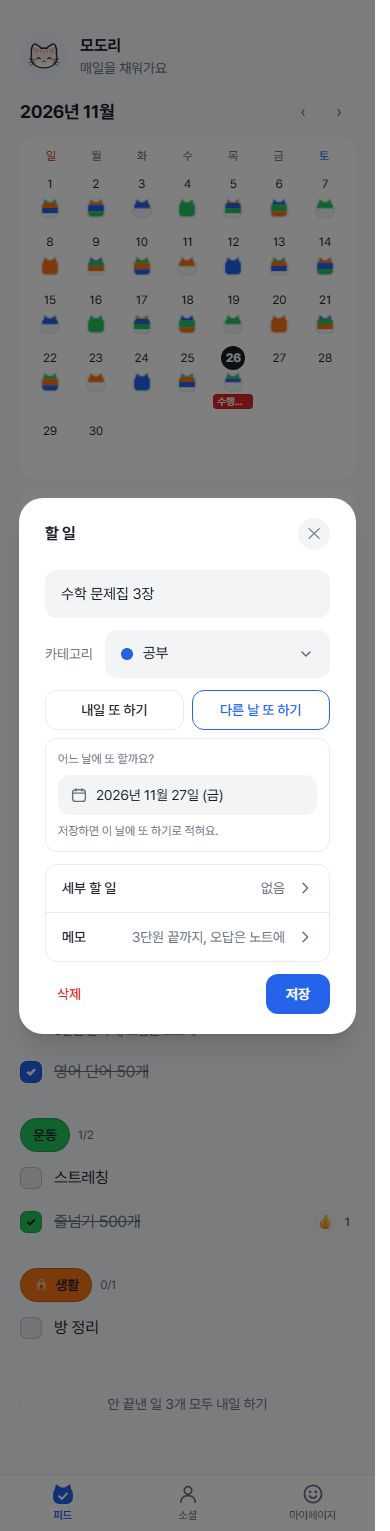
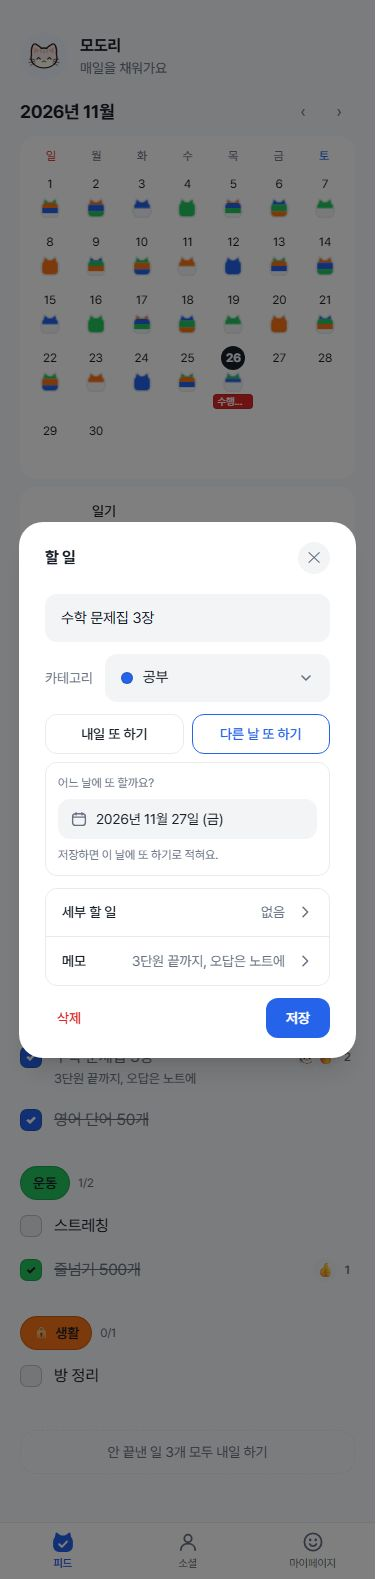
docs: 일기 변경을 넣어 2026-11-26 릴리스 스크린샷을 다시 찍는다
같은 날 일기 변경(홈 카드의 글, 친구 화면의 일기 카드, 비공개 스위치)이 배포돼 main d794244로 71장을 다시 찍어 덮어썼다. 운영자의 미커밋 촬영 변경은 커밋하지 않았다.

diff --git a/docs/feedback.md b/docs/feedback.md
@@ -281,7 +281,7 @@
 | 2026-11-26 | 사용자(운영자) | 일정 색 카테고리를 설정 안이 아니라 팔레트 오른쪽 끝 +로 만들고, 만들면 왼쪽에 하나씩 붙게, 기본 색은 흰색만. 일반 카테고리 색에도 똑같이 | 반영 | 색 고르기를 "흰색 + 내 색 + +"로 다시 만들었고 일정·반복 일정·일반 카테고리가 한 목록을 같이 쓴다(운영자가 골랐다). 설정 화면은 만들기 폼만 빼고 남겼다. 기본 색이 흰색뿐이라 기존 시험 여러 곳을 새 방식으로 고쳤다(승인). 신규 가입자에게 색 고르기가 막막해질 수 있다는 점은 대가로 적었다 | `docs/decisions.md` |
 | 2026-11-26 | 사용자(운영자) | 색 목록(100색)이 쓰지 않는 색뿐이라 너무 많다, 대표 색 몇 개만 두라 | 반영 | 12개(운영자가 고름)로 줄였고 표에 없는 색은 색상 코드·색 판으로 만든다. "100개" 확인 시험 2곳은 개수만 바꿨다(승인) | `docs/decisions.md` "대표 색 12개" |
 | 2026-11-26 | 사용자(운영자) | 일정 밑에 굳이 어느 카테고리의 색인지 적지 않아도 된다 | 반영 | 일정 카드와 홈의 반복 일정 줄에서 내 색의 이름을 지웠다. 이름은 고치는 창과 내 색 화면에서만 보인다 | `docs/decisions.md` "대표 색 12개" |
-| 2026-11-26 | 사용자(운영자) | 릴리스 스크린샷도 찍어 달라 | 반영 | 71장(main f94a7bb). 새 화면 34 색 고르기·35 새 색 만들기 창(대표 색 12개)·36 내 색 화면은 `my-colors.spec.ts`를 따로 만들어 찍었다. 21~24는 운영자 미커밋 변경으로 찍었다 | `docs/screenshots/README.md` |
+| 2026-11-26 | 사용자(운영자) | 릴리스 스크린샷도 찍어 달라 | 반영 | 71장(main d794244, 같은 날 일기 변경이 배포돼 한 번 더 찍어 덮어썼다). 새 화면 34 색 고르기·35 새 색 만들기 창(대표 색 12개)·36 내 색 화면은 `my-colors.spec.ts`를 따로 만들어 찍었다. 21~24는 운영자 미커밋 변경으로 찍었다 | `docs/screenshots/README.md` |
 | 2026-11-26 | 사용자(운영자) | 홈의 일기 카드는 "눌러서 읽기" 말고 한 화면에 들어올 만큼의 글을 보이고 나머지는 "…"으로 | 반영 | 글을 여섯 줄까지 보이고 넘치면 줄인다(서버는 앞 400자만 보낸다) | `docs/decisions.md` "일기는 기본 공개" |
 | 2026-11-26 | 사용자(운영자) | "친구 공개" 박스는 없어도 된다. 비공개도 기본이 공개이고 스위치를 켜면 비공개가 되게 | 반영 | 표시를 모두 없애고 일기 쓰는 화면을 "비공개" 스위치로 바꿨다. 이미 쓴 일기의 공개 값은 그대로 둔다(그때 "나만 봐요"를 믿고 쓴 글). 기본 공개의 위험은 대가로 적었다 | 같은 곳 |
 | 2026-11-26 | 사용자(운영자) | 친구 피드에도 일기를 내 화면과 같게 보이고, 비공개면 "친구가 비공개한 일기예요", 안 썼으면 "일기를 쓰지 않았어요" | 반영 | 친구 화면 달력 밑에 같은 카드를 둔다. 비공개한 날의 글·기분은 브라우저로 보내지 않지만, 비공개 일기가 그 날에 있다는 사실은 드러난다(요청대로, 대가로 적음) | 같은 곳 |

diff --git a/docs/screenshots/README.md b/docs/screenshots/README.md
@@ -68,4 +68,4 @@ SCREENSHOT_DIR=2026-10-01 npm run screenshots  # 폴더 이름을 정할 때
 | 2026-11-16 | 14fe01f | 마이페이지 설정 줄의 설명 글 삭제(08), AI 연결 화면의 자세한 설명(17), 처음 쓰는 사람용 사용법 카드의 첫 장과 마지막 장(18·19). 같은 날 오전에 2385ef9로 한 번 찍은 것을 덮어썼다(AI 연결 첫 화면). **10/19 이후 처음 찍은 것**이라 그 사이 바뀐 화면(설정 한 페이지로 모으기, 화면 언어, 캐릭터 새로 그림 등)도 함께 들어 있다. 옛 폴더와 하나하나 견주지는 않았다 |
 | 2026-11-20 | c121cf4 | 세부 할 일(홈 25·큰 할 일 창 26), 일정 만들기 팝업(27)과 다가오는 일정 토글(28), AI 도우미 제안에 세부 할 일(29), 둘러보기의 일기·AI 도우미 단계(30·31, 단계가 12개로 늘었다). 11-17~19에 생긴 일기(21~23)·AI 도우미 첫 화면(24)도 이 폴더에서 처음 찍었다. **21~24는 `capture.spec.ts`·`seed.ts`의 아직 커밋하지 않은 변경(운영자 작업 중)으로 찍었다.** 둘러보기 파일 이름은 `18-tour-intro`·`19-tour-calendar`·`20-tour-todo`로 바뀌었다(예전 18·19는 `tutorial-first`·`tutorial-last`). 다크 모드는 홈만, 실기기·스토어용 이미지는 찍지 않았다 |
 | 2026-11-24 | a12003f | 설정 톱니 그림(08), 일기를 읽는 화면과 쓰는 화면으로 나눔: 새 읽는 화면(32), 22번은 쓰는 화면 주소 `/diary/<날짜>/edit`로 찍음, 홈 일기 카드는 기분과 "눌러서 읽기"만(02). 할 일 창의 첫 화면에 "세부 할 일 ›"·"메모 ›" 줄(10), 세부 할 일 화면(26, 줄을 눌러 들어감), 새 메모 화면(33), 일정 창의 메모 줄(13·27). 촬영 스크립트: 26에 줄 누르기, 10에 날짜 칸이 떠오른 뒤 0.6초 기다림(처음 찍은 것이 흐려서 다시 찍음), 32·33 추가. **21~24는 이번에도 `capture.spec.ts`·`seed.ts`의 아직 커밋하지 않은 변경(운영자 작업 중)으로 찍었고, 그 안의 22번 주소를 `/edit`로 고쳤다(커밋하지 않음).** 다크 모드는 홈만, 실기기·스토어용 이미지는 찍지 않았다 |
-| 2026-11-26 | f94a7bb | 색 고르기를 "흰색 + 내 색 + +"로(일정 창 13·27의 색 칸, 새 34), 새 색 만들기 창의 대표 색 12개(새 35), 내 색 화면(새 36), 일정 카드에서 내 색 이름을 뺌. 일반 카테고리·반복 일정의 색 고르기도 같은 모양이라 따로 찍지 않았다 |
+| 2026-11-26 | d794244(f94a7bb로 찍은 것을 일기 변경을 넣어 덮어씀) | 홈 일기 카드가 글을 여섯 줄까지 보이고 "친구 공개" 표시가 없어짐(홈 02 등), 친구 화면 달력 밑의 일기 카드(05), 일기 쓰기 화면의 "비공개" 스위치(22). 색 고르기를 "흰색 + 내 색 + +"로(일정 창 13·27의 색 칸, 새 34), 새 색 만들기 창의 대표 색 12개(새 35), 내 색 화면(새 36), 일정 카드에서 내 색 이름을 뺌. 일반 카테고리·반복 일정의 색 고르기도 같은 모양이라 따로 찍지 않았다 |
